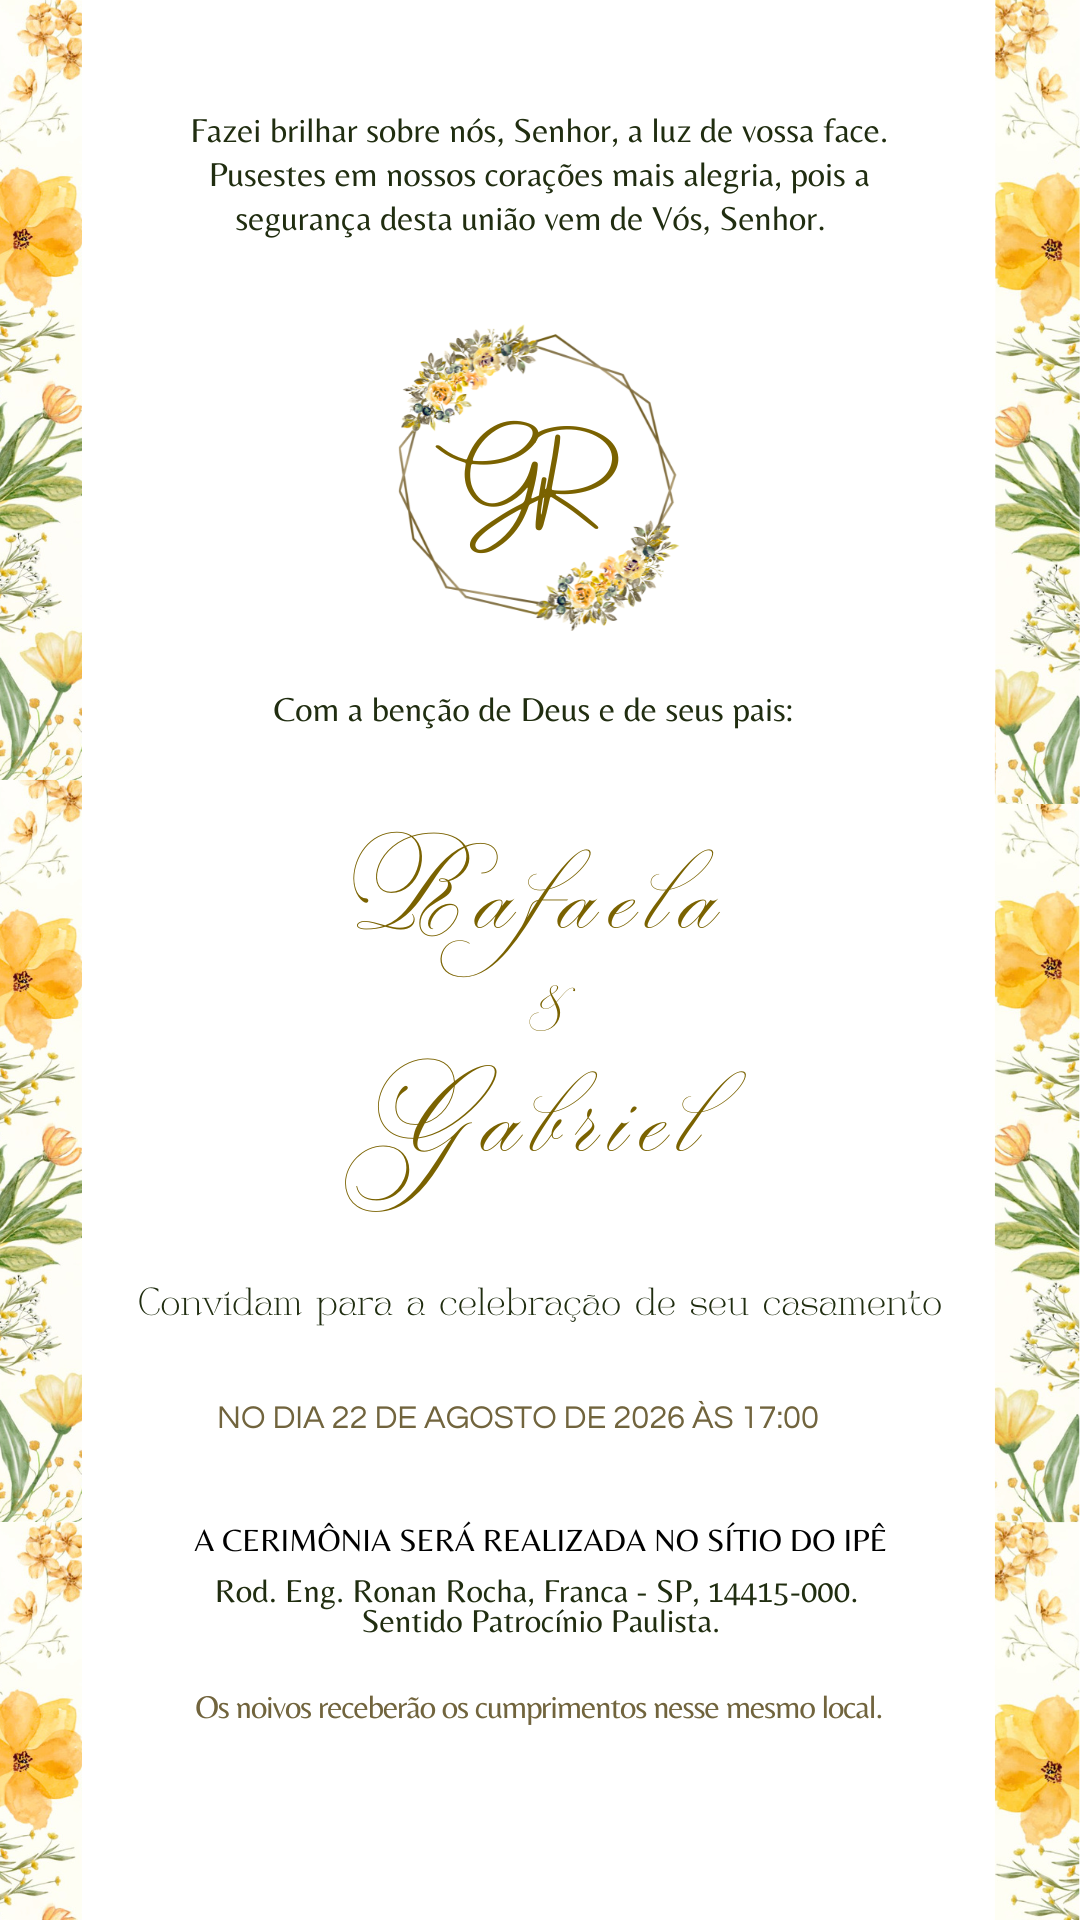
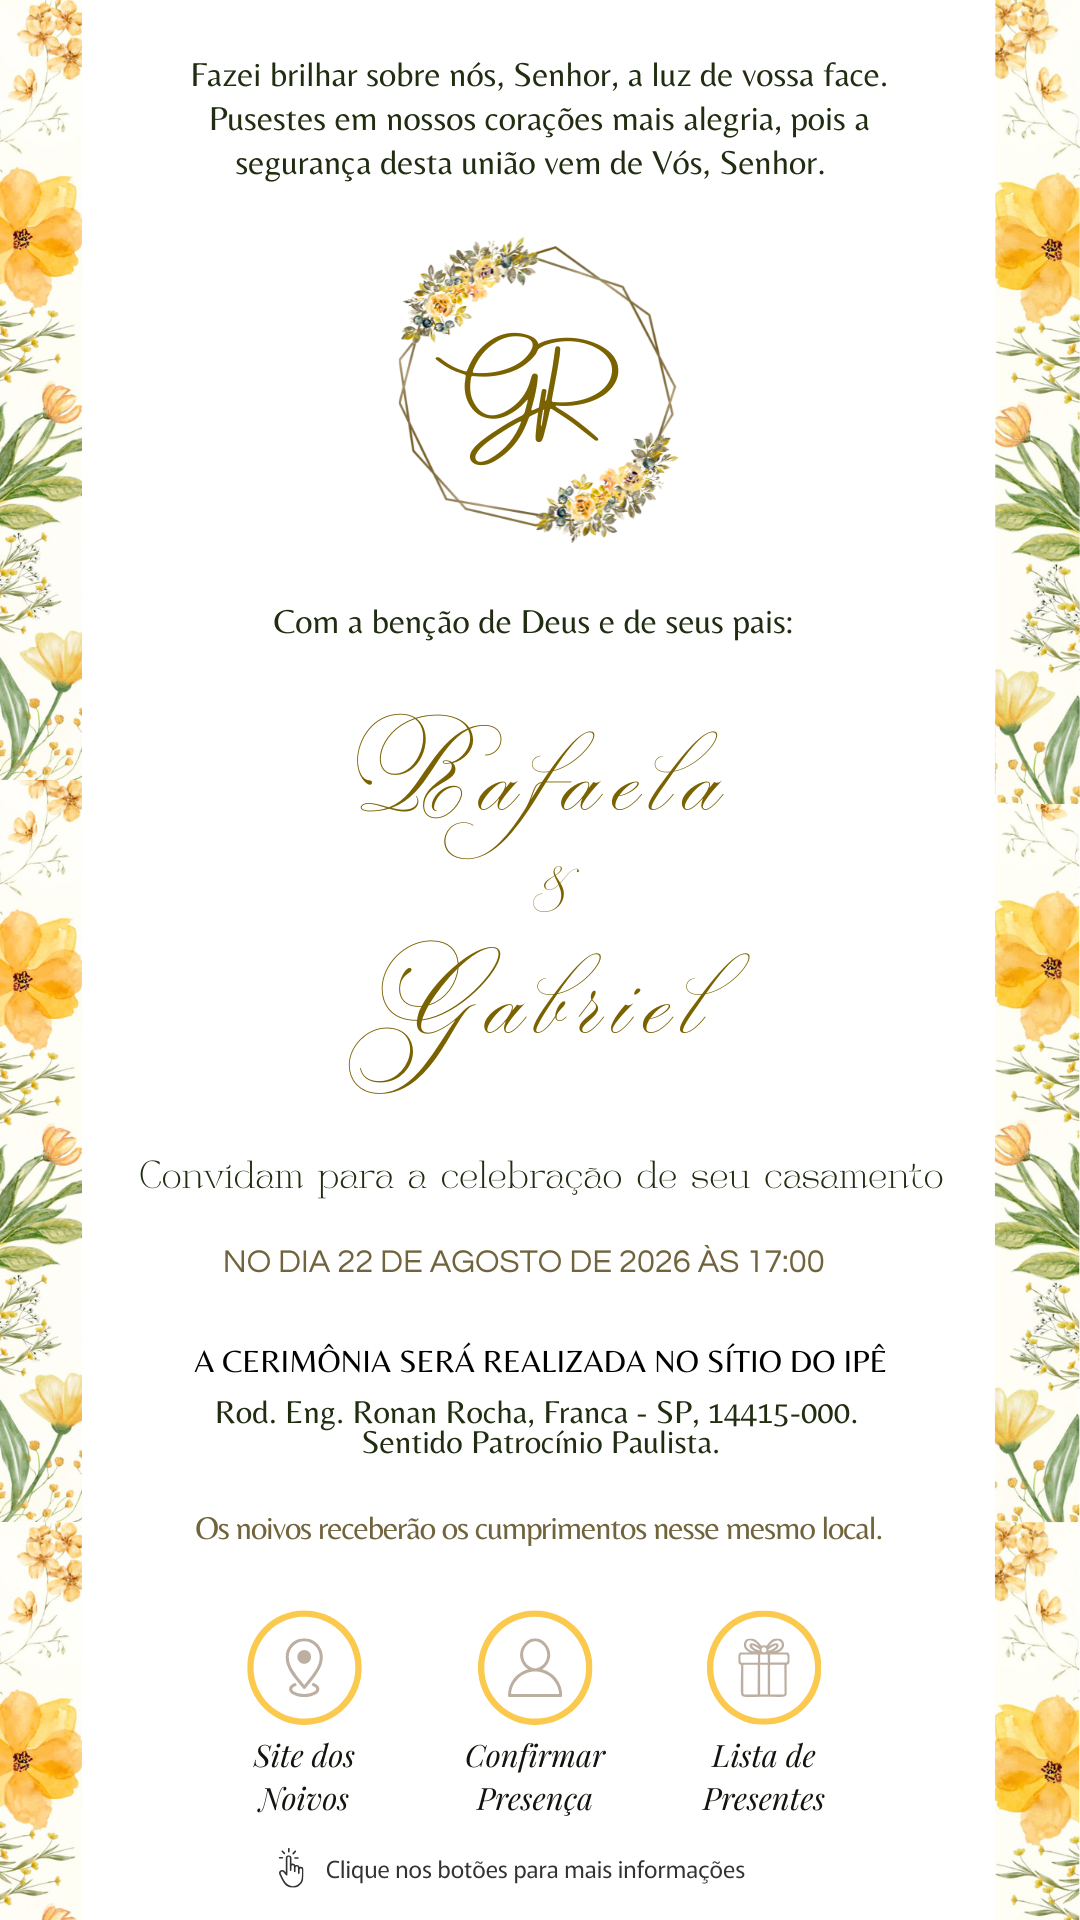
Refatora convite digital com botões invisíveis e fundo responsivo
- Substitui vídeo por imagens estáticas no convite
- Usa <img> no intro e finale para ancorar botões invisíveis à imagem
- Imagens responsivas: mobile e desktop via <picture>
- Fundo embaçado com fundo-desktop.webp em todas as telas
- Calibra posições dos botões invisíveis para mobile e desktop
- Acelera transição entre telas para 0.3s

diff --git a/convite.html b/convite.html
@@ -4,7 +4,7 @@
 <meta charset="UTF-8">
 <meta name="viewport" content="width=device-width, initial-scale=1.0">
 <title>Convite — Rafaela & Gabriel</title>
-<link href="https://fonts.googleapis.com/css2?family=Cormorant+Garamond:ital,wght@0,300;1,300;1,400&family=Jost:wght@300;400&display=swap" rel="stylesheet">
+<link href="https://fonts.googleapis.com/css2?family=Cormorant+Garamond:ital,wght@0,300;1,300&family=Jost:wght@300&display=swap" rel="stylesheet">
 <style>
 *, *::before, *::after { box-sizing: border-box; margin: 0; padding: 0; }
 html, body { width: 100%; height: 100%; overflow: hidden; background: #1a1206; }
@@ -12,132 +12,142 @@ html, body { width: 100%; height: 100%; overflow: hidden; background: #1a1206; }
 /* ── INTRO ── */
 #intro {
   position: fixed; inset: 0;
-  background: url('img/noivos%20convite.webp') center top / cover no-repeat;
-  display: flex; flex-direction: column; align-items: center; justify-content: flex-start;
-  padding-top: clamp(3rem, 12vw, 7rem);
-  transition: opacity 0.7s ease;
+  display: flex; align-items: center; justify-content: center;
+  transition: opacity 0.3s ease;
 }
-#intro::before {
-  content: ''; position: absolute; inset: 0;
-  background: linear-gradient(to bottom,
-    rgba(26,18,6,0.45) 0%,
-    rgba(26,18,6,0.15) 40%,
-    rgba(26,18,6,0.55) 100%
-  );
-}
-.intro-text {
+.intro-frame {
   position: relative;
-  font-family: 'Cormorant Garamond', serif;
-  font-size: clamp(20px, 5.5vw, 40px);
-  font-weight: 300; font-style: italic;
-  color: #FFFEF7; text-align: center;
-  padding: 0 2rem; line-height: 1.4;
-  text-shadow: 0 2px 24px rgba(0,0,0,0.5);
-  margin-bottom: 2.2rem;
+  display: inline-flex;
+  max-width: 100vw;
+  max-height: 100vh;
 }
-.open-btn {
-  position: relative;
-  font-family: 'Jost', sans-serif; font-weight: 300;
-  font-size: 11px; letter-spacing: 0.28em; text-transform: uppercase;
-  color: #FFFEF7; background: transparent;
-  border: 1px solid rgba(255,254,247,0.55);
-  padding: 14px 44px; cursor: pointer;
-  transition: background 0.2s, border-color 0.2s;
+.intro-img {
+  display: block;
+  max-width: 100vw;
+  max-height: 100vh;
+  width: auto; height: auto;
+}
+/* botão invisível — posição em % da imagem */
+.intro-inv-btn {
+  position: absolute;
+  width: 18%; padding-top: 18%;
+  border-radius: 50%;
+  top: calc(58% - 120px); left: calc(50% + 40px);
+  transform: translate(-50%, -50%);
+  background: transparent;
+  border: none; outline: none;
+  cursor: pointer;
   -webkit-tap-highlight-color: transparent;
 }
-.open-btn:hover, .open-btn:active {
-  background: rgba(255,254,247,0.1); border-color: #FFFEF7;
-}
-
-/* ── VÍDEO ── */
-#video-wrap {
-  position: fixed; inset: 0;
-  background: #000;
-  opacity: 0; pointer-events: none;
-  transition: opacity 0.5s ease;
-}
-#video-wrap.visible { opacity: 1; pointer-events: auto; }
-#video-wrap video {
-  width: 100%; height: 100%; object-fit: cover; display: block;
+@media (min-width: 768px) {
+  .intro-inv-btn {
+    top: 40%; left: 60%;
+    width: 6%; padding-top: 6%;
+  }
 }
 
 /* ── FINALE ── */
 #finale {
   position: fixed; inset: 0;
   display: flex; align-items: center; justify-content: center;
+  overflow: hidden;
   opacity: 0; pointer-events: none;
-  transition: opacity 0.8s ease;
+  transition: opacity 0.3s ease;
 }
 #finale.visible { opacity: 1; pointer-events: auto; }
+
+/* fundo embaçado — mesma imagem em cover atrás da imagem nítida */
+#finale::before {
+  content: '';
+  position: absolute; inset: -40px;
+  z-index: 0;
+  background: url('img/fundo-desktop.webp') center / cover no-repeat;
+  filter: blur(4px) brightness(0.85) saturate(0.9);
+}
+@media (min-width: 768px) {
+  #finale::before {
+    background-image: url('img/fundo-desktop.webp');
+  }
+}
+
+/* wrapper se dimensiona exatamente como a imagem */
 .finale-frame {
   position: relative;
-  display: flex; align-items: flex-end; justify-content: center;
-  max-width: 100vw; max-height: 100vh;
-  padding-bottom: clamp(2rem, 7%, 4rem);
+  z-index: 1;
+  display: inline-flex;
+  max-width: 100vw;
+  max-height: 100vh;
 }
+
 .finale-img {
   display: block;
-  max-width: 100vw; max-height: 100vh;
+  max-width: 100vw;
+  max-height: 100vh;
   width: auto; height: auto;
-  object-fit: contain;
 }
-.site-btn {
-  position: absolute; bottom: clamp(2rem, 7%, 4rem); left: 50%;
-  transform: translateX(-50%); white-space: nowrap;
-  font-family: 'Jost', sans-serif; font-weight: 400;
-  font-size: 10px; letter-spacing: 0.22em; text-transform: uppercase;
-  color: #1a1206; background: #C9A848;
-  border: 1px solid #C9A848;
-  padding: 11px 28px; text-decoration: none;
-  transition: background 0.2s, border-color 0.2s;
+
+/* botões invisíveis sobre os ícones da imagem */
+.inv-btn {
+  position: absolute;
+  width: 22%; padding-top: 22%;
+  border-radius: 50%;
+  transform: translate(-50%, -50%);
+  background: transparent;
+  border: none; outline: none;
+  cursor: pointer;
   -webkit-tap-highlight-color: transparent;
 }
-.site-btn:hover, .site-btn:active {
-  background: #b8943a; border-color: #b8943a;
+.desktop-btn { display: none; }
+@media (min-width: 768px) {
+  .mobile-btn  { display: none; }
+  .desktop-btn { display: block; width: 8%; padding-top: 8%; }
 }
 </style>
 </head>
 <body>
 
 <div id="intro">
-  <p class="intro-text">Temos um convite especial para você...</p>
-  <button class="open-btn" onclick="abrirConvite()">Abrir</button>
-</div>
-
-<div id="video-wrap">
-  <video id="video" src="img/noivos%20convite%20video.mp4" playsinline preload="auto"></video>
+  <div class="intro-frame">
+    <picture>
+      <source media="(min-width: 768px)" srcset="img/convite%20desktop%20cover.webp">
+      <img class="intro-img" src="img/convite.webp" alt="">
+    </picture>
+    <button class="intro-inv-btn" onclick="abrirConvite()"></button>
+  </div>
 </div>
 
 <div id="finale">
   <div class="finale-frame">
-    <img class="finale-img" src="img/convite%20mobile.webp" alt="">
-    <a href="index.html" class="site-btn">Acessar site dos noivos</a>
+    <picture>
+      <source media="(min-width: 768px)" srcset="img/convite%20digital%20desktop.webp">
+      <img class="finale-img" src="img/convite%20mobile.webp" alt="Convite Rafaela & Gabriel">
+    </picture>
+
+    <!-- botões mobile (já calibrados) -->
+    <a href="index.html"     class="inv-btn mobile-btn" style="left:20%; top:86%;"></a>
+    <a href="rsvp.html"      class="inv-btn mobile-btn" style="left:50%; top:86%;"></a>
+    <a href="presentes.html" class="inv-btn mobile-btn" style="left:80%; top:86%;"></a>
+
+    <!-- botões desktop -->
+    <a href="index.html"     class="inv-btn desktop-btn" style="left:39%; top:86%;"></a>
+    <a href="rsvp.html"      class="inv-btn desktop-btn" style="left:50%; top:86%;"></a>
+    <a href="presentes.html" class="inv-btn desktop-btn" style="left:61%; top:86%;"></a>
   </div>
 </div>
 
 <script>
-  var video = document.getElementById('video');
-
   function abrirConvite() {
-    var intro     = document.getElementById('intro');
-    var videoWrap = document.getElementById('video-wrap');
+    var intro  = document.getElementById('intro');
+    var finale = document.getElementById('finale');
 
     intro.style.opacity = '0';
     intro.style.pointerEvents = 'none';
 
     setTimeout(function() {
       intro.style.display = 'none';
-      videoWrap.classList.add('visible');
-      video.play();
-    }, 700);
+      finale.classList.add('visible');
+    }, 300);
   }
-
-  video.addEventListener('ended', function() {
-    var videoWrap = document.getElementById('video-wrap');
-    var finale    = document.getElementById('finale');
-    videoWrap.classList.remove('visible');
-    finale.classList.add('visible');
-  });
 </script>
 </body>
 </html>
